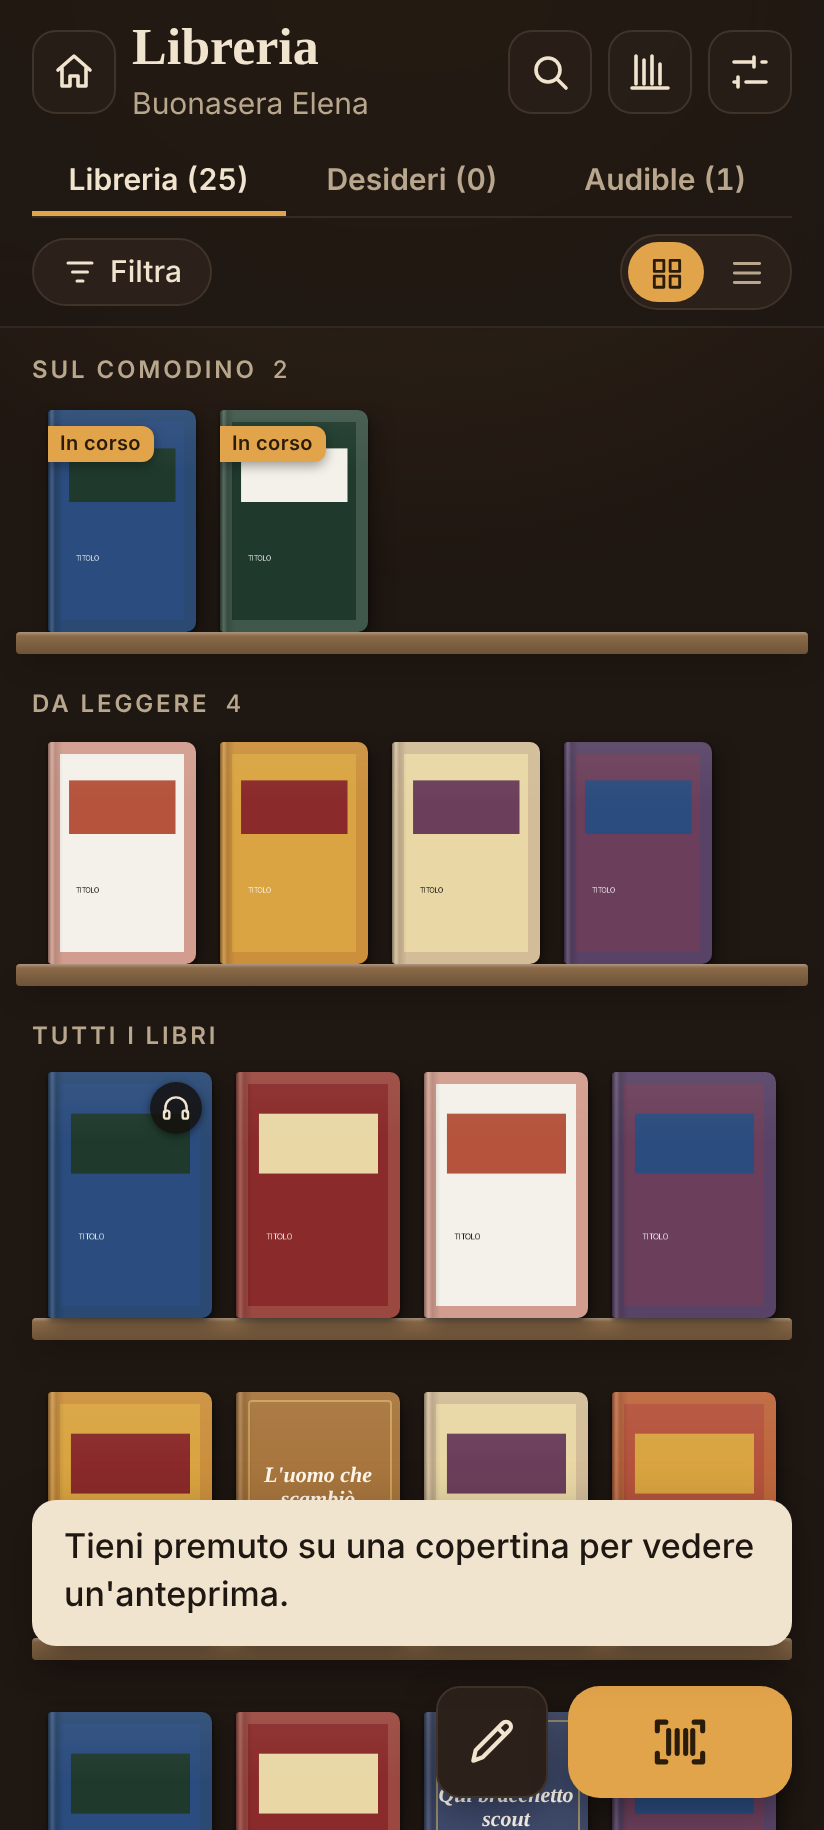
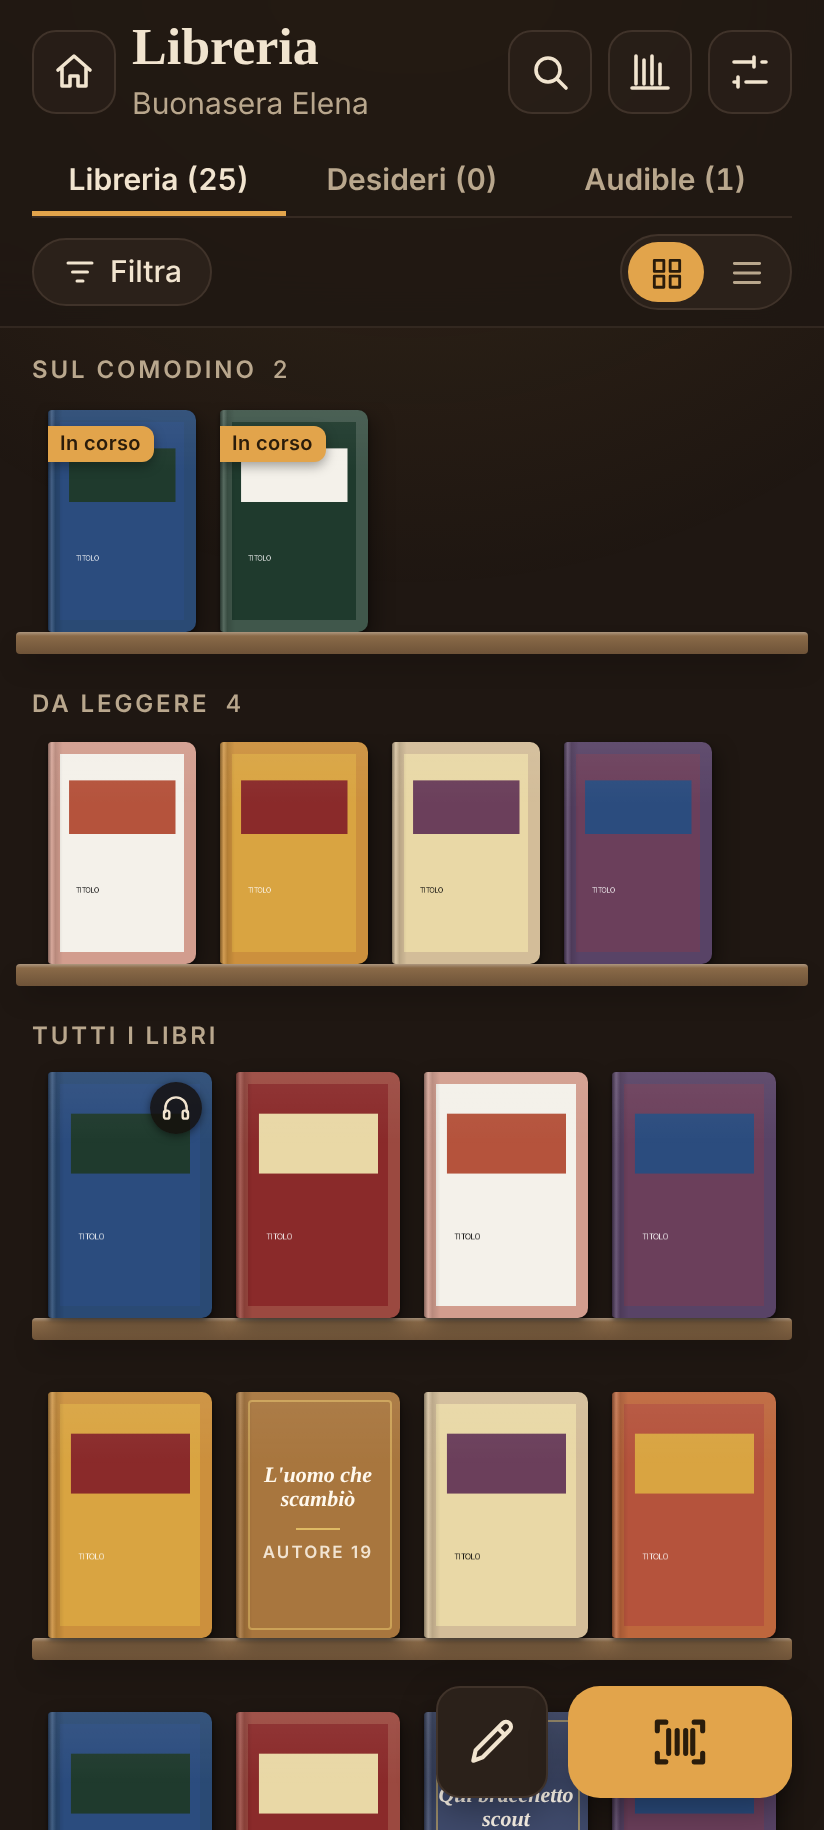
Aggiornamento automatico all'apertura dell'app (v45)
Claude-Session: https://claude.ai/code/session_01CGSbjp6uh4ipGwunJBTrLf

Changed region(s): [[0.0303, 0.8098, 0.9709, 0.9033]]

diff --git a/app.js b/app.js
@@ -20,7 +20,7 @@ const esc = (s) => String(s ?? '').replace(/[&<>"']/g, (c) => ({ '&': '&amp;', '
 
 /* Numero di versione: va aumentato a ogni modifica, qui e nei ?v= di index.html,
    così il telefono scarica i file nuovi invece di usare quelli in memoria. */
-const APP_VERSION = 44;
+const APP_VERSION = 45; // va tenuto uguale al numero in version.json
 
 const STORAGE_KEY = 'libreria.v1';
 const DEFAULT_GENRES = [
@@ -2717,4 +2717,27 @@ function openManual() {
   $('manual-q').focus();
 }
 
+/* Aggiornamento automatico. version.json dice qual è l'ultima versione pubblicata.
+   All'apertura (e quando si torna all'app) se ce n'è una più nuova:
+   - se non c'è niente di aperto, la pagina si ricarica da sola sulla versione nuova;
+   - se si sta compilando una scheda, compare un avviso e si aggiorna quando si vuole.
+   I libri stanno nella memoria del telefono: ricaricare non li tocca. */
+async function checkUpdate() {
+  if (!navigator.onLine) return;
+  let latest = 0;
+  try {
+    const r = await fetch('version.json?t=' + Date.now(), { cache: 'no-store' });
+    latest = Number((await r.json()).version) || 0;
+  } catch (e) { return; }
+  if (latest <= APP_VERSION) return;
+  const go = () => location.replace(location.pathname + '?v=' + latest);
+  let tried = '';
+  try { tried = sessionStorage.getItem('libreria.updateTried'); sessionStorage.setItem('libreria.updateTried', String(latest)); } catch (e) { /* niente */ }
+  if (topLayer() === null && tried !== String(latest)) return go();
+  $('update-bar').hidden = false;
+  $('update-go').onclick = go;
+}
+document.addEventListener('visibilitychange', () => { if (document.visibilityState === 'visible') checkUpdate(); });
+
 init();
+checkUpdate();

diff --git a/index.html b/index.html
@@ -8,15 +8,15 @@
 <script>document.documentElement.dataset.theme = 'night';</script>
 <meta name="apple-mobile-web-app-capable" content="yes">
 <meta name="apple-mobile-web-app-title" content="Libreria">
-<link rel="manifest" href="manifest.webmanifest?v=44">
-<link rel="icon" href="icons/icon.svg?v=44" type="image/svg+xml">
-<link rel="apple-touch-icon" href="icons/icon-180.png?v=44">
+<link rel="manifest" href="manifest.webmanifest?v=45">
+<link rel="icon" href="icons/icon.svg?v=45" type="image/svg+xml">
+<link rel="apple-touch-icon" href="icons/icon-180.png?v=45">
 <meta name="apple-mobile-web-app-status-bar-style" content="black-translucent">
 <meta name="mobile-web-app-capable" content="yes">
 <link rel="preconnect" href="https://fonts.googleapis.com">
 <link rel="preconnect" href="https://fonts.gstatic.com" crossorigin>
 <link href="https://fonts.googleapis.com/css2?family=Figtree:wght@400;500;600;700&family=Fraunces:opsz,wght@9..144,500;9..144,600&display=swap" rel="stylesheet">
-<link rel="stylesheet" href="style.css?v=44">
+<link rel="stylesheet" href="style.css?v=45">
 </head>
 <body>
 
@@ -470,8 +470,9 @@
 <div class="peek" id="peek" hidden><div class="peek-card" id="peek-card"></div></div>
 
 <div class="toast" id="toast" hidden role="status"></div>
+<div class="update-bar" id="update-bar" hidden role="status"><span>C'è una versione nuova dell'app</span><button class="btn primary" id="update-go">Aggiorna</button></div>
 
-<script src="vendor/zxing.min.js?v=44"></script>
-<script src="app.js?v=44"></script>
+<script src="vendor/zxing.min.js?v=45"></script>
+<script src="app.js?v=45"></script>
 </body>
 </html>

diff --git a/style.css b/style.css
@@ -663,3 +663,8 @@ body::before {
 
 /* v44 */
 .steps { margin: 0 0 8px; padding-left: 22px; display: grid; gap: 6px; font-size: 15px; }
+
+/* v45: avviso di versione nuova */
+.update-bar { position: fixed; left: 16px; right: 16px; top: calc(10px + env(safe-area-inset-top)); z-index: 60; max-width: 520px; margin: 0 auto; display: flex; align-items: center; justify-content: space-between; gap: 12px; padding: 10px 10px 10px 16px; border-radius: 14px; background: var(--surface); color: var(--ink); border: 1px solid var(--accent); box-shadow: 0 10px 30px rgba(0, 0, 0, .45); font-weight: 600; }
+.update-bar[hidden] { display: none; }
+.update-bar .btn { min-height: 40px; }
